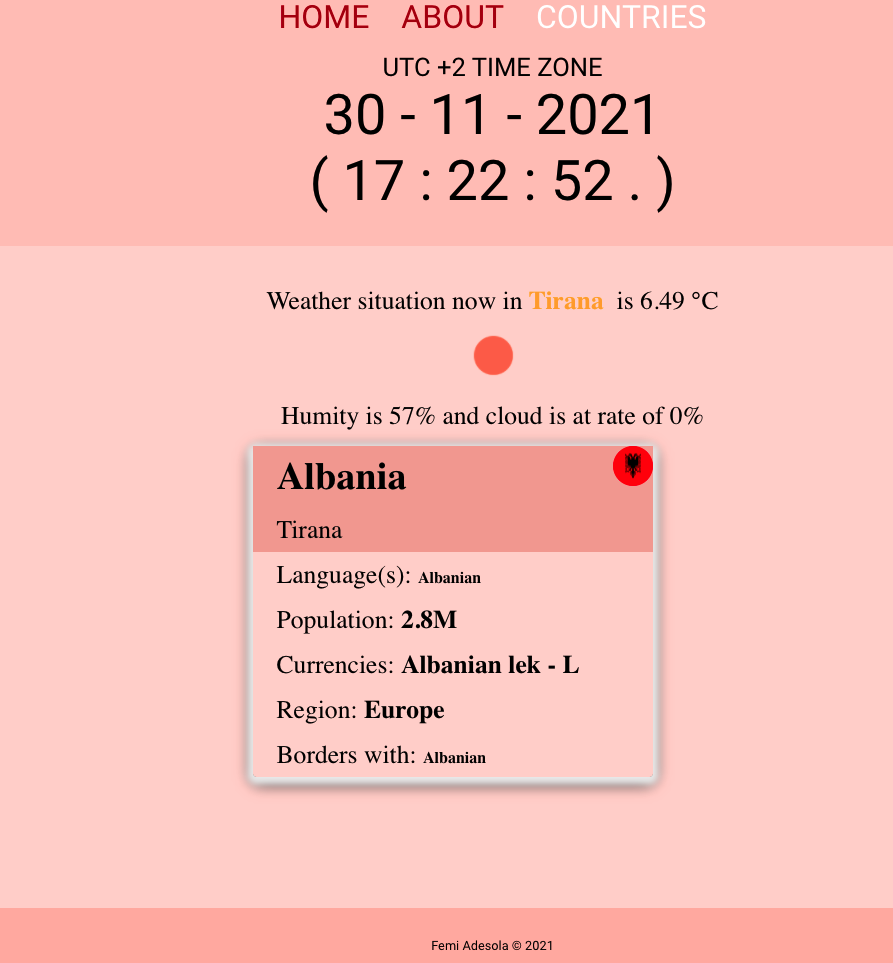
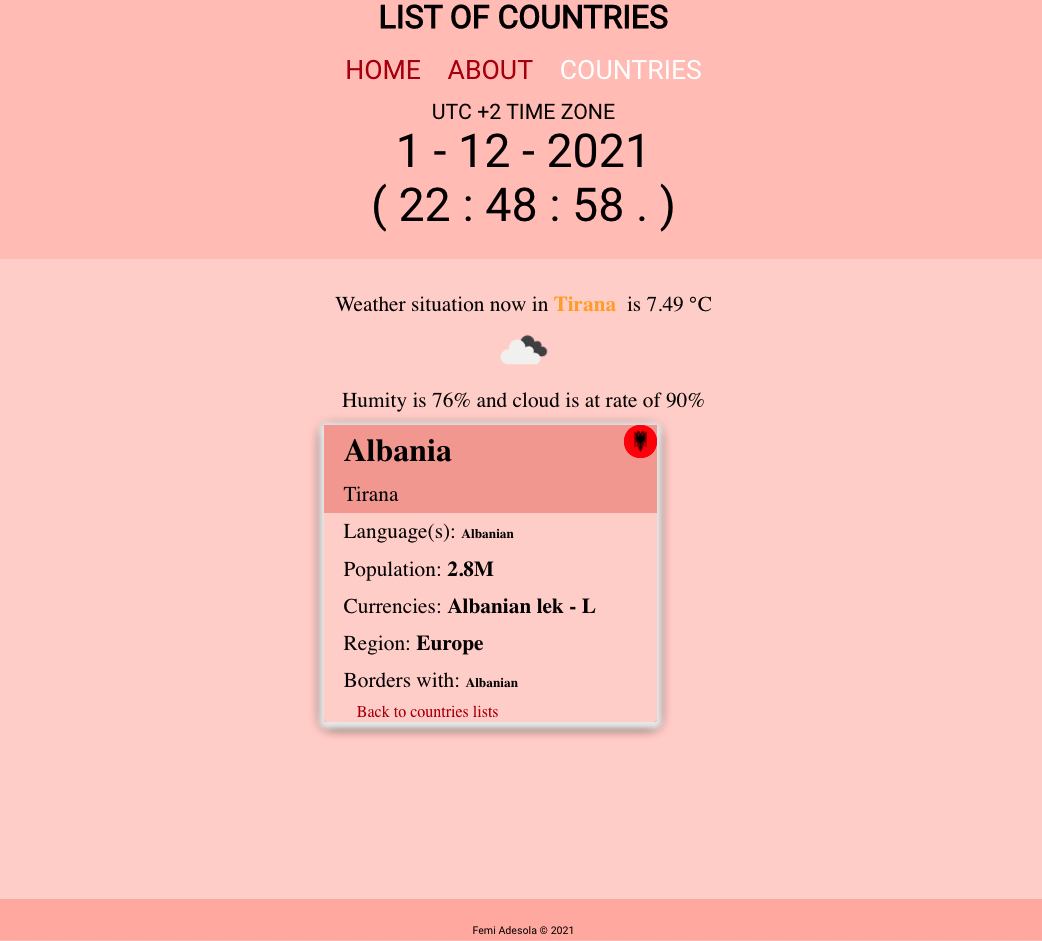
AChanged screenshot

diff --git a/src/styles/card.css b/src/styles/card.css
@@ -13,13 +13,13 @@
     border-radius: 5px;
 } 
 
-a .country p, a .country h2 { 
+ .country p,  .country h2 { 
     margin-left: 20px;
     padding:10px ;
     color: var(--black);
 }
   
-a .country h2{
+ .country h2{
     padding-top: 50px;
 }
 .countries{
@@ -43,3 +43,8 @@ span{
    font-size: 20px;
 }
 
+.country a{
+    margin-left: 50px;
+    margin-bottom: 50px;
+    font-size: 1.5rem;
+}
